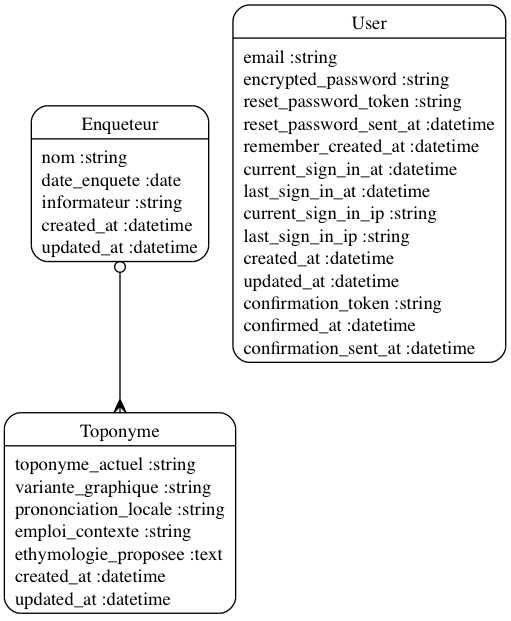
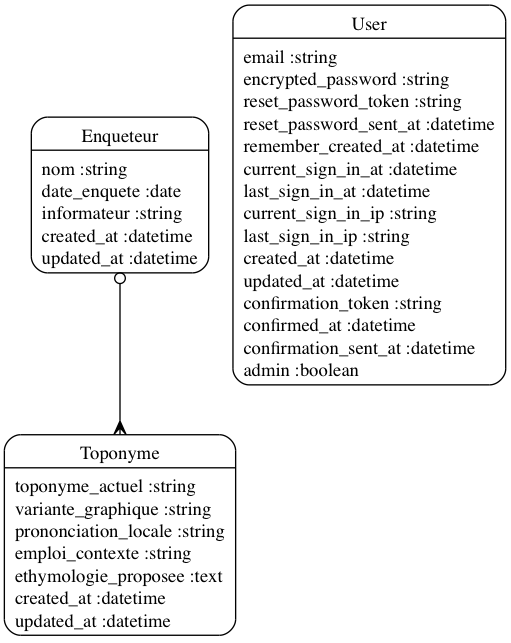
Made enqueteurs only visible to users with permission to see them

Changed region(s): [[0.4403, 0.0306, 0.998, 0.6119], [0.0, 0.6425, 0.4697, 1.0], [0.0587, 0.153, 0.411, 0.4589]]

diff --git a/app/controllers/enqueteurs_controller.rb b/app/controllers/enqueteurs_controller.rb
@@ -1,9 +1,7 @@
 class EnqueteursController < ApplicationController
   before_filter :authorize_admin!, :except => [:index, :show]
-  before_filter :find_enqueteur, :only => [:show,
-  :edit,
-  :update,
-  :destroy]
+  before_filter :authenticate_user!, :only => [:show]
+  before_filter :find_enqueteur, :only => [:show, :edit, :update, :destroy]
   def index
     @enqueteurs = Enqueteur.all
   end
@@ -28,26 +26,28 @@ class EnqueteursController < ApplicationController
   end
   def update
     if @enqueteur.update_attributes(params[:enqueteur])
-    flash[:notice] = "Enqueteur has been updated."
-    redirect_to @enqueteur
+      flash[:notice] = "Enqueteur has been updated."
+      redirect_to @enqueteur
     else
-    flash[:alert] = "Enqueteur has not been updated."
-    render :action => "edit"
+      flash[:alert] = "Enqueteur has not been updated."
+      render :action => "edit"
     end
   end
   def destroy
-  @enqueteur.destroy
-  flash[:notice] = "Enqueteur has been deleted."
-  redirect_to enqueteurs_path
+    @enqueteur.destroy
+    flash[:notice] = "Enqueteur has been deleted."
+    redirect_to enqueteurs_path
   end
   private
   def find_enqueteur
-  @enqueteur = Enqueteur.find(params[:id])
+    @enqueteur = if current_user.admin?
+      Enqueteur.find(params[:id])
+    else
+      Enqueteur.readable_by(current_user).find(params[:id])
+    end
   rescue ActiveRecord::RecordNotFound
-  flash[:alert] = "The enqueteur you were looking" +
-  " for could not be found."
-  redirect_to enqueteurs_path
+    flash[:alert] = "The enqueteur you were looking" +
+    " for could not be found."
+    redirect_to enqueteurs_path
   end
 end
-
-

diff --git a/db/schema.rb b/db/schema.rb
@@ -11,12 +11,21 @@
 #
 # It's strongly recommended to check this file into your version control system.
 
-ActiveRecord::Schema.define(:version => 20120603170321) do
+ActiveRecord::Schema.define(:version => 20120605065715) do
 
   create_table "enqueteurs", :force => true do |t|
     t.string   "nom"
     t.date     "date_enquete"
     t.string   "informateur"
+    t.datetime "created_at"
+    t.datetime "updated_at"
+  end
+
+  create_table "permissions", :force => true do |t|
+    t.integer  "user_id"
+    t.integer  "thing_id"
+    t.string   "thing_type"
+    t.string   "action"
     t.datetime "created_at"
     t.datetime "updated_at"
   end

diff --git a/app/models/enqueteur.rb b/app/models/enqueteur.rb
@@ -1,4 +1,9 @@
 class Enqueteur < ActiveRecord::Base
   has_many :toponymes, :dependent => :destroy
   validates :nom, :presence => true
+  has_many :permissions, :as => :thing
+  scope :readable_by, lambda { |user|
+  joins(:permissions).where(:permissions => { :action => "view",
+  :user_id => user.id })
+  }
 end

diff --git a/db/migrate/20120605065715_create_permissions.rb b/db/migrate/20120605065715_create_permissions.rb
@@ -1,0 +1,12 @@
+class CreatePermissions < ActiveRecord::Migration
+  def change
+    create_table :permissions do |t|
+      t.integer :user_id
+      t.integer :thing_id
+      t.string :thing_type
+      t.string :action
+
+      t.timestamps
+    end
+  end
+end

diff --git a/spec/models/permission_spec.rb b/spec/models/permission_spec.rb
@@ -1,0 +1,5 @@
+require 'spec_helper'
+
+describe Permission do
+  pending "add some examples to (or delete) #{__FILE__}"
+end

diff --git a/app/models/permission.rb b/app/models/permission.rb
@@ -1,0 +1,4 @@
+class Permission < ActiveRecord::Base
+  belongs_to :user
+  belongs_to :thing, :polymorphic => true
+end
